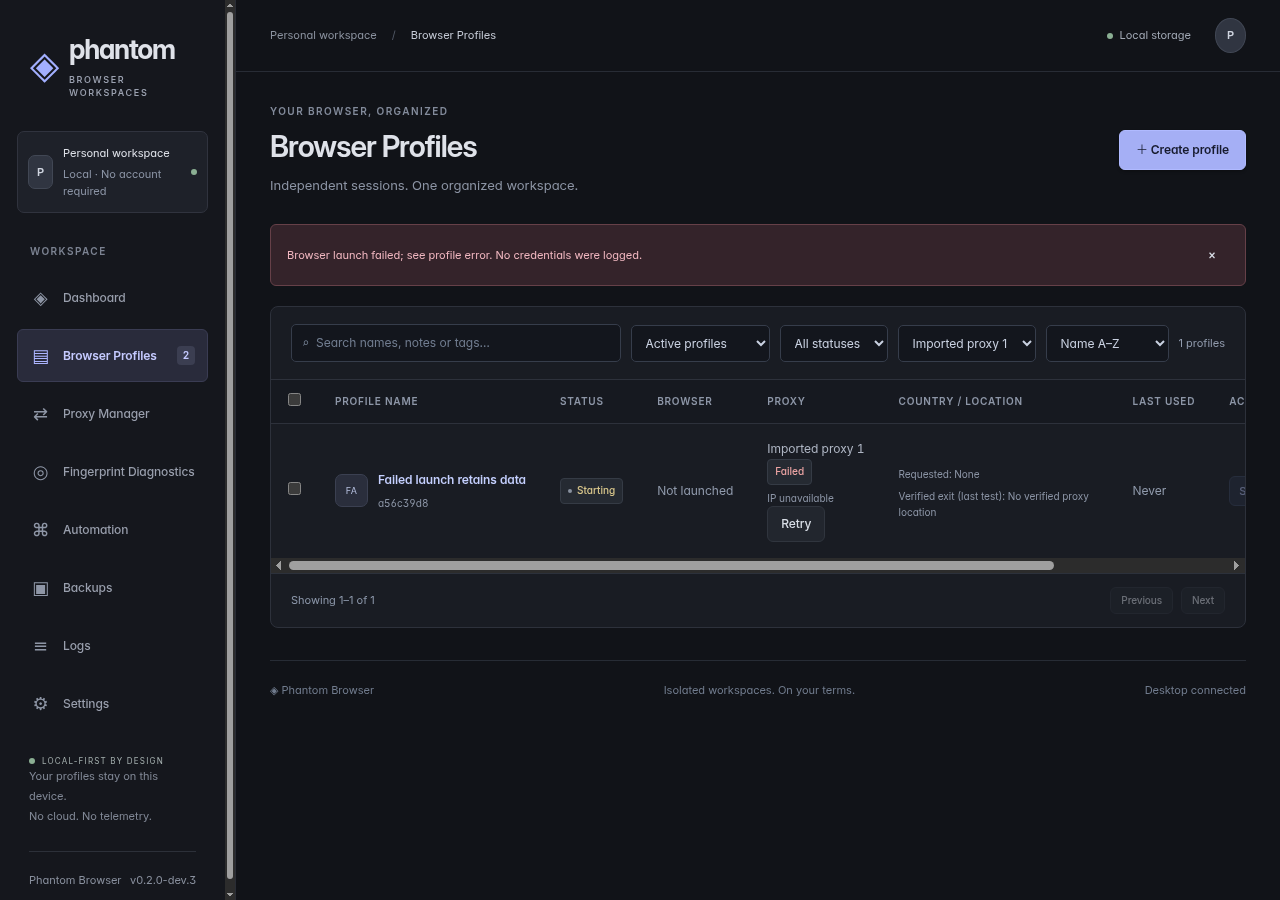
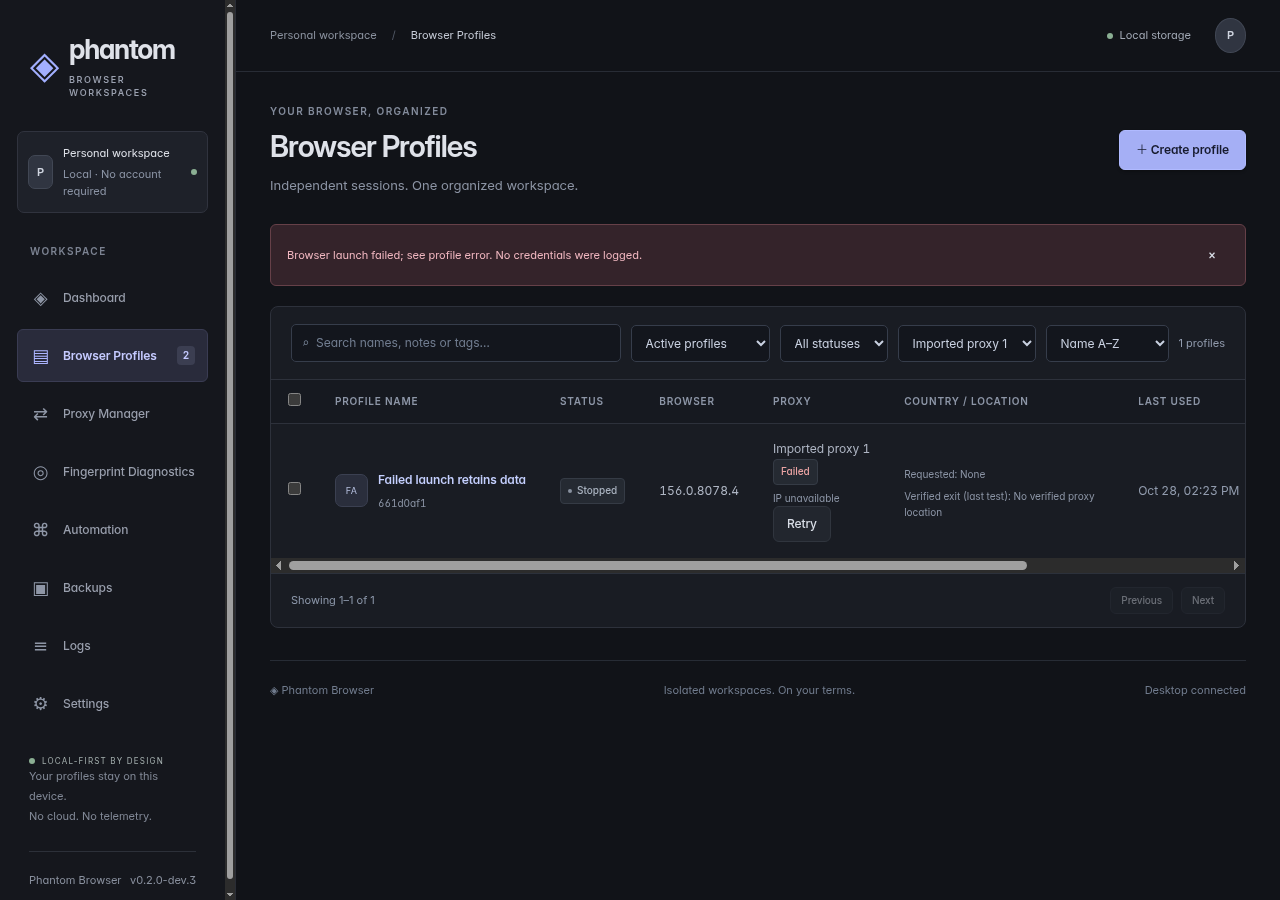
fix: keep country flags visible beside profile names at minimum window size

diff --git a/src/renderer/main.tsx b/src/renderer/main.tsx
@@ -14,7 +14,7 @@ function App(){const [page,setPage]=useState<Page>('Dashboard');const [state,set
  const profiles=state?.profiles??[];const proxies=state?.proxies??[];const running=profiles.filter(activeProfile);const filtered=profiles.filter(p=>(`${p.name} ${p.group} ${p.description} ${p.tags.join(' ')} ${p.notes}`.toLowerCase().includes(search.toLowerCase()))&&(archiveView==='all'||(archiveView==='archived'?!!p.archivedAt:!p.archivedAt))&&(filter==='all'||p.status===filter)&&(proxyFilter==='all'||(proxyFilter==='direct'?!p.proxyId:p.proxyId===proxyFilter))).sort((a,b)=>sort==='createdAt'?b.createdAt.localeCompare(a.createdAt):sort==='lastUsed'?(b.lastUsed??'').localeCompare(a.lastUsed??''):sort==='status'?a.status.localeCompare(b.status):a.name.localeCompare(b.name));const shown=filtered.slice(offset,offset+25);const busy=(action:string,id?:string)=>pending.includes(id?`${action}:${id}`:action);
  const act=(action:'launch'|'stop'|'duplicate'|'delete'|'backup'|'openStorage'|'diagnose'|'proxyDelete'|'proxyTest'|'automationStop'|'archive'|'unarchive'|'home'|'verifyLocation',id:string)=>{if(action==='backup'){setChosen(id);setBackupDialog('backup');}else void invoke({action,id});};
  const bulk=async(action:'launch'|'stop'|'archive'|'unarchive'|'delete')=>{setBulkBusy(true);let accepted=0,failed=0,skipped=0;try{for(const id of selected){const p=profiles.find(p=>p.id===id),live=p&&activeProfile(p);if(!p||(action==='stop'?!live:live)||(action==='launch'&&p.archivedAt)){skipped++;continue;}if(await invoke({action,id},true))accepted++;else failed++;}setNotice(`Bulk requests: ${accepted} accepted, ${failed} failed, ${skipped} skipped. ${failed?'Retry failed requests individually for details.':''}`);setSelected([]);}finally{setBulkBusy(false);}};
- const table=(rows:Profile[],compact=false)=><div className="table-wrap"><table><thead><tr>{!compact&&<th><input aria-label="Select displayed profiles" type="checkbox" checked={rows.length>0&&rows.every(p=>selected.includes(p.id))} onChange={e=>setSelected(e.target.checked?[...new Set([...selected,...rows.map(p=>p.id)])]:selected.filter(id=>!rows.some(p=>p.id===id)))}/></th>}<th>PROFILE NAME</th><th>STATUS</th><th>BROWSER</th><th>PROXY</th><th>COUNTRY / LOCATION</th><th>LAST USED</th><th>ACTIONS</th></tr></thead><tbody>{rows.map(p=><tr key={p.id}>{!compact&&<td><input aria-label={`Select ${p.name}`} type="checkbox" checked={selected.includes(p.id)} onChange={e=>setSelected(e.target.checked?[...selected,p.id]:selected.filter(id=>id!==p.id))}/></td>}<td><div className="profile-name"><span className="avatar">{p.name.slice(0,2).toUpperCase()}</span><span><button className="profile-link" onClick={()=>{setDetailsTab('Overview');setDetails(p.id);}}>{p.name}</button><small>{p.tags.join(' · ')||p.id.slice(0,8)}</small>{p.lastError&&<small className="error-text">{p.lastError}</small>}</span></div></td><td><span className={`badge ${p.status}`}><i/>{p.archivedAt?'archived':p.status}</span></td><td>{p.engineVersion==='Not launched'?<span className="muted">Not launched</span>:p.engineVersion}</td><td>{p.proxyId?(proxies.find(v=>v.id===p.proxyId)?.name??'Assigned proxy unavailable'):'Direct connection'}{p.proxyId&&<><ConnectionSummary compact connection={profileConnection(proxies.find(v=>v.id===p.proxyId)?.connection,p.requestedCountry)}/><button disabled={busy('verifyLocation',p.id)||proxies.find(v=>v.id===p.proxyId)?.connection?.state==='connecting'} onClick={()=>act('verifyLocation',p.id)}>{busy('verifyLocation',p.id)?'Connecting…':!proxies.find(v=>v.id===p.proxyId)?.connection?'Test location':'Retry'}</button></>}</td><td><ProfileLocation requestedCountry={p.requestedCountry} proxyId={p.proxyId} connection={proxies.find(v=>v.id===p.proxyId)?.connection}/></td><td className="muted">{date(p.lastUsed??p.lastLaunch)}</td><td><div className="actions"><button className={p.status==='running'?'':'launch'} disabled={!!p.archivedAt||(p.status==='starting'||p.status==='stopping')||busy('launch',p.id)||busy('stop',p.id)} onClick={()=>act(p.status==='running'?'stop':'launch',p.id)}>{p.status==='running'?'■ Stop':p.status==='starting'?'Starting…':p.status==='stopping'?'Stopping…':'▷ Launch'}</button>{!compact&&<><button onClick={()=>{setDetailsTab('Proxy');setDetails(p.id);}}>Proxy</button><button title="Edit profile" disabled={running.some(v=>v.id===p.id)} onClick={()=>setProfileEditor(p)}>Edit</button><details><summary aria-label={`More actions for ${p.name}`}>•••</summary><div className="menu"><button disabled={activeProfile(p)} onClick={()=>act('duplicate',p.id)}>Duplicate</button><button disabled={activeProfile(p)} onClick={()=>act('backup',p.id)}>Back up</button><button onClick={()=>act('openStorage',p.id)}>Open storage</button><button disabled={p.status!=='running'||!p.homepage} onClick={()=>act('home',p.id)}>Open homepage</button><button disabled={activeProfile(p)} onClick={()=>act(p.archivedAt?'unarchive':'archive',p.id)}>{p.archivedAt?'Unarchive profile':'Archive profile'}</button><button className="danger" disabled={activeProfile(p)} onClick={()=>act('delete',p.id)}>Delete…</button></div></details></>}</div></td></tr>)}</tbody></table>{rows.length===0&&<Empty title="No profiles here" text="Create a profile to get a separate, persistent Chromium workspace." action={<button className="primary" onClick={()=>setProfileEditor(null)}>＋ Create profile</button>}/>}</div>;
+ const table=(rows:Profile[],compact=false)=><div className="table-wrap"><table className="profile-table"><thead><tr>{!compact&&<th><input aria-label="Select displayed profiles" type="checkbox" checked={rows.length>0&&rows.every(p=>selected.includes(p.id))} onChange={e=>setSelected(e.target.checked?[...new Set([...selected,...rows.map(p=>p.id)])]:selected.filter(id=>!rows.some(p=>p.id===id)))}/></th>}<th>PROFILE NAME</th><th>COUNTRY / LOCATION</th><th>STATUS</th><th>BROWSER</th><th>PROXY</th><th>LAST USED</th><th>ACTIONS</th></tr></thead><tbody>{rows.map(p=><tr key={p.id}>{!compact&&<td><input aria-label={`Select ${p.name}`} type="checkbox" checked={selected.includes(p.id)} onChange={e=>setSelected(e.target.checked?[...selected,p.id]:selected.filter(id=>id!==p.id))}/></td>}<td><div className="profile-name"><span className="avatar">{p.name.slice(0,2).toUpperCase()}</span><span><button className="profile-link" onClick={()=>{setDetailsTab('Overview');setDetails(p.id);}}>{p.name}</button><small>{p.tags.join(' · ')||p.id.slice(0,8)}</small>{p.lastError&&<small className="error-text">{p.lastError}</small>}</span></div></td><td><ProfileLocation requestedCountry={p.requestedCountry} proxyId={p.proxyId} connection={proxies.find(v=>v.id===p.proxyId)?.connection}/></td><td><span className={`badge ${p.status}`}><i/>{p.archivedAt?'archived':p.status}</span></td><td>{p.engineVersion==='Not launched'?<span className="muted">Not launched</span>:p.engineVersion}</td><td>{p.proxyId?(proxies.find(v=>v.id===p.proxyId)?.name??'Assigned proxy unavailable'):'Direct connection'}{p.proxyId&&<><ConnectionSummary compact connection={profileConnection(proxies.find(v=>v.id===p.proxyId)?.connection,p.requestedCountry)}/><button disabled={busy('verifyLocation',p.id)||proxies.find(v=>v.id===p.proxyId)?.connection?.state==='connecting'} onClick={()=>act('verifyLocation',p.id)}>{busy('verifyLocation',p.id)?'Connecting…':!proxies.find(v=>v.id===p.proxyId)?.connection?'Test location':'Retry'}</button></>}</td><td className="muted">{date(p.lastUsed??p.lastLaunch)}</td><td><div className="actions"><button className={p.status==='running'?'':'launch'} disabled={!!p.archivedAt||(p.status==='starting'||p.status==='stopping')||busy('launch',p.id)||busy('stop',p.id)} onClick={()=>act(p.status==='running'?'stop':'launch',p.id)}>{p.status==='running'?'■ Stop':p.status==='starting'?'Starting…':p.status==='stopping'?'Stopping…':'▷ Launch'}</button>{!compact&&<><button onClick={()=>{setDetailsTab('Proxy');setDetails(p.id);}}>Proxy</button><button title="Edit profile" disabled={running.some(v=>v.id===p.id)} onClick={()=>setProfileEditor(p)}>Edit</button><details><summary aria-label={`More actions for ${p.name}`}>•••</summary><div className="menu"><button disabled={activeProfile(p)} onClick={()=>act('duplicate',p.id)}>Duplicate</button><button disabled={activeProfile(p)} onClick={()=>act('backup',p.id)}>Back up</button><button onClick={()=>act('openStorage',p.id)}>Open storage</button><button disabled={p.status!=='running'||!p.homepage} onClick={()=>act('home',p.id)}>Open homepage</button><button disabled={activeProfile(p)} onClick={()=>act(p.archivedAt?'unarchive':'archive',p.id)}>{p.archivedAt?'Unarchive profile':'Archive profile'}</button><button className="danger" disabled={activeProfile(p)} onClick={()=>act('delete',p.id)}>Delete…</button></div></details></>}</div></td></tr>)}</tbody></table>{rows.length===0&&<Empty title="No profiles here" text="Create a profile to get a separate, persistent Chromium workspace." action={<button className="primary" onClick={()=>setProfileEditor(null)}>＋ Create profile</button>}/>}</div>;
  const bulkControls=selected.length>0&&<div className="bulk">{selected.length} selected <button disabled={bulkBusy} onClick={()=>void bulk('launch')}>Launch selected</button><button disabled={bulkBusy} onClick={()=>void bulk(archiveView==='archived'?'unarchive':'archive')}>{archiveView==='archived'?'Unarchive':'Archive'} selected</button><button disabled={bulkBusy} onClick={()=>void bulk('stop')}>Stop selected</button><button disabled={bulkBusy} onClick={()=>void bulk('delete')}>Delete selected…</button><button onClick={()=>setSelected([])}>Clear</button></div>;
  const modalOpen=!!details||importOpen||!!assignment||!!backupDialog||profileEditor!==undefined||proxyEditor!==undefined;
  return <div className="app"><aside inert={modalOpen} aria-hidden={modalOpen}><div className="brand"><span className="brand-mark">◈</span><span>phantom<small>BROWSER WORKSPACES</small></span></div><div className="workspace"><span className="workspace-icon">P</span><div>Personal workspace<small>Local · No account required</small></div><span className="dot"/></div><div className="nav-label">WORKSPACE</div><nav>{pages.map((p,i)=><button key={p} aria-label={p} className={page===p?'active':''} onClick={()=>{setPage(p);setNotice('');}}><span>{icons[i]}</span>{p}{p==='Browser Profiles'&&<em>{profiles.length}</em>}</button>)}</nav><div className="aside-bottom"><div><span className="dot"/> LOCAL-FIRST BY DESIGN</div><p>Your profiles stay on this device.<br/>No cloud. No telemetry.</p><span className="version">Phantom Browser <b>v{packageInfo.version}</b></span></div></aside><main inert={modalOpen} aria-hidden={modalOpen}><header><div className="breadcrumb">Personal workspace <span>/</span> <b>{page}</b></div><div className="header-right"><span className="local-label"><span className="dot"/> Local storage</span><span className="user-avatar">P</span></div></header><div className="content"><div className="page-heading"><div><div className="eyebrow">YOUR BROWSER, ORGANIZED</div><h1>{page}</h1><p>{({Dashboard:'A clear view of your local browser workspaces.','Browser Profiles':'Independent sessions. One organized workspace.','Proxy Manager':'Your connections, with genuine connectivity checks.','Fingerprint Diagnostics':'Inspect compatibility and privacy. No undetectability claims.',Automation:'Explicit, local browser testing powered by Playwright.',Backups:'Preserve your workspaces. Keep session archives private.',Logs:'Recent application events. Credentials are never logged.',Settings:'Local preferences and runtime information.'})[page]}</p></div>{(page==='Dashboard'||page==='Browser Profiles')&&<button className="primary" onClick={()=>setProfileEditor(null)}>＋ Create profile</button>}{page==='Proxy Manager'&&<button className="primary" onClick={()=>setProxyEditor(null)}>＋ Add proxy</button>}{page==='Backups'&&<button className="primary" onClick={()=>setBackupDialog('restore')}>↥ Restore backup</button>}</div>

diff --git a/tests/country-table-check.ts b/tests/country-table-check.ts
@@ -12,8 +12,8 @@ export async function checkCountryTable(testInfo:TestInfo,installedExe?:string){
   const located=await service.locations.create({name:'Verified controlled Germany',country:'DE',proxyId:prepared.proxyId});service.create({name:'Requested France actual Germany',requestedCountry:'FR',proxyId:prepared.proxyId});service.create({name:'Explicit direct profile'});
   const manual=await service.proxySave(undefined,{name:'Manual label only',protocol:'http',host:'127.0.0.1',port:proxy.port,region:'United States'});service.create({name:'Unverified manual label',proxyId:manual});service.locations.removeToken();await service.shutdown();db.close();
   const open=()=>electron.launch({...(installedExe?{executablePath:installedExe}:{}),args:[...(installedExe?[]:['.']),`--user-data-dir=${root}`,...(process.platform==='linux'?['--no-sandbox']:[])],env:{...process.env,PHANTOM_DEV_URL:''}});
-  app=await open();let page=await app.firstWindow();await expect(page.getByRole('heading',{name:'Dashboard',exact:true})).toBeVisible();await page.getByRole('button',{name:'Browser Profiles',exact:true}).click();await expect(page.locator('.version')).toContainText('v'+packageInfo.version);await expect(page.getByRole('columnheader',{name:'COUNTRY / LOCATION',exact:true})).toBeVisible();await page.context().setOffline(true);
-  const row=(name:string)=>page.getByRole('row').filter({has:page.getByText(name,{exact:true})});const verified=row('Verified controlled Germany');await expect(verified.getByRole('img',{name:'Germany flag'})).toHaveCount(2);expect(await verified.getByRole('img').first().evaluate((img:HTMLImageElement)=>img.complete&&img.naturalWidth>0)).toBe(true);await expect(verified.getByText('Connected',{exact:true})).toBeVisible();await expect(verified.getByText('8.8.8.8',{exact:true})).toBeVisible();const mismatch=row('Requested France actual Germany');await expect(mismatch.getByText('Location mismatch',{exact:true})).toBeVisible();await expect(mismatch.getByRole('img',{name:'France flag'})).toBeVisible();await expect(mismatch.getByRole('img',{name:'Germany flag'})).toBeVisible();await expect(row('Explicit direct profile').getByRole('img')).toHaveCount(0);await expect(row('Explicit direct profile')).toContainText('Direct connection');await expect(row('Explicit direct profile')).toContainText('No verified proxy location');await expect(row('Unverified manual label').getByRole('img')).toHaveCount(0);await expect(row('Unverified manual label')).toContainText('Not configured');
+  app=await open();let page=await app.firstWindow();await expect(page.getByRole('heading',{name:'Dashboard',exact:true})).toBeVisible();await app.evaluate(({BrowserWindow})=>{BrowserWindow.getAllWindows()[0]!.setBounds({width:1000,height:680});});await page.getByRole('button',{name:'Browser Profiles',exact:true}).click();await expect(page.locator('.version')).toContainText('v'+packageInfo.version);await expect(page.getByRole('columnheader',{name:'COUNTRY / LOCATION',exact:true})).toBeVisible();await page.context().setOffline(true);
+  const row=(name:string)=>page.getByRole('row').filter({has:page.getByText(name,{exact:true})});const verified=row('Verified controlled Germany');await expect(verified.getByRole('img',{name:'Germany flag'})).toHaveCount(2);await verified.getByText('Verified controlled Germany',{exact:true}).scrollIntoViewIfNeeded();expect(await page.locator('.profile-table').evaluate(table=>table.parentElement!.scrollLeft)).toBe(0);await expect(verified.getByRole('img',{name:'Germany flag'}).last()).toBeInViewport();expect(await verified.getByRole('img').first().evaluate((img:HTMLImageElement)=>img.complete&&img.naturalWidth>0)).toBe(true);await expect(verified.getByText('Connected',{exact:true})).toBeVisible();await expect(verified.getByText('8.8.8.8',{exact:true})).toBeVisible();const mismatch=row('Requested France actual Germany');await expect(mismatch.getByText('Location mismatch',{exact:true})).toBeVisible();await expect(mismatch.getByRole('img',{name:'France flag'})).toBeVisible();await expect(mismatch.getByRole('img',{name:'Germany flag'})).toBeVisible();await expect(row('Explicit direct profile').getByRole('img')).toHaveCount(0);await expect(row('Explicit direct profile')).toContainText('Direct connection');await expect(row('Explicit direct profile')).toContainText('No verified proxy location');await expect(row('Unverified manual label').getByRole('img')).toHaveCount(0);await expect(row('Unverified manual label')).toContainText('Not configured');
   await page.screenshot({path:testInfo.outputPath('country-table-installed.png'),fullPage:true});const reply=await page.evaluate(()=>window.phantom!.request({action:'snapshot'}));expect(reply.ok).toBe(true);if(!reply.ok)throw Error(reply.error);expect(reply.snapshot.profiles.find(p=>p.id===located.id)).toMatchObject({requestedCountry:'DE',requestedCountryName:'Germany',proxyId:prepared.proxyId});fs.writeFileSync(testInfo.outputPath('country-table-installed.json'),JSON.stringify({version:packageInfo.version,source:installedExe?'actual installed Windows EXE':'actual built Electron app',geo:'controlled synthetic DE / 8.8.8.8 data through an actual local HTTP proxy, not a live paid provider',profiles:reply.snapshot.profiles.map(p=>({name:p.name,requestedCountry:p.requestedCountry,requestedCountryName:p.requestedCountryName,proxyId:p.proxyId})),flagsLoaded:true},null,2));
   // Restart the real app, not just a React remount: persisted assignment/location survives.
   await app.close();app=await open();page=await app.firstWindow();await page.getByRole('button',{name:'Browser Profiles',exact:true}).click();await expect(row('Verified controlled Germany').getByRole('img',{name:'Germany flag'})).toHaveCount(2);

diff --git a/src/renderer/style.css b/src/renderer/style.css
@@ -16,3 +16,6 @@ aside{overflow-y:auto;overscroll-behavior:contain;scrollbar-width:thin}aside>*{f
 .country-flag{width:22px;height:15px;object-fit:cover;flex:none;border:1px solid #ffffff24;border-radius:2px}
 .profile-location{min-width:200px;max-width:270px;white-space:normal}
 .profile-location small{line-height:1.65}
+/* Keep location beside identity at the supported 1000px minimum window. */
+.profile-table .profile-name>span:last-child{min-width:0;max-width:200px}
+.profile-table .profile-name .profile-link{white-space:normal;text-align:left;overflow-wrap:anywhere}

diff --git a/docs/COUNTRY_LOCATION_FIX_REPORT.md b/docs/COUNTRY_LOCATION_FIX_REPORT.md
@@ -28,7 +28,7 @@ No installed executable, installed version, provider account or network trace wa
 - Local Linux: typecheck, lint, build and pinned runtime verification passed; **165 unit cases / 18 files**, **35 browser/integration cases passed + 1 existing Windows-only TLS skip**, **8 actual Electron cases passed + 1 existing Windows DPAPI skip**.
 - New built-renderer test uses the real request dispatcher and Service, a controlled provider inventory, a real authenticated local HTTP proxy, and explicitly synthetic geo response data. It selects Germany in the actual built form, automatically connects, saves the profile, checks persisted code/name/assignment, displays actual SVG images, launches through the assigned proxy and proves additional proxy forwarding. A changed synthetic exit produces a US-vs-Germany mismatch. Separate built-form cases cover missing provider, empty inventory and provider outage with zero unintended direct profiles.
 - Actual Electron table test uses a real temporary SQLite database populated by actual controlled proxy verification, then checks connected, shared-profile mismatch, unverified manual labels and direct rows. It verifies flags load offline, restarts the application, and checks failed Retry retains proxy assignment and clears the detected flag.
-- The same table regression is added to the **installed Windows EXE** suite. Final hosted Windows build/install evidence is recorded below when available; it must not be inferred from Linux or from a source-only renderer test.
+- The same table regression is added to the **installed Windows EXE** suite. Review of the initial installed-Windows screenshot caught horizontal clipping on the hosted screen. Country/Location now sits beside the name, long names wrap, and the real app/EXE test asserts an observed flag is in the minimum 1000×680 viewport without horizontal scrolling (ordinary vertical scrolling to the row is allowed). Final hosted Windows build/install evidence is recorded below when available; it must not be inferred from Linux or from a source-only renderer test.
 
 The screenshot `country-location-controlled.png` contains explicitly synthetic country/IP data from the controlled test. It is not a paid-provider or real-world US/Germany exit claim.
 
